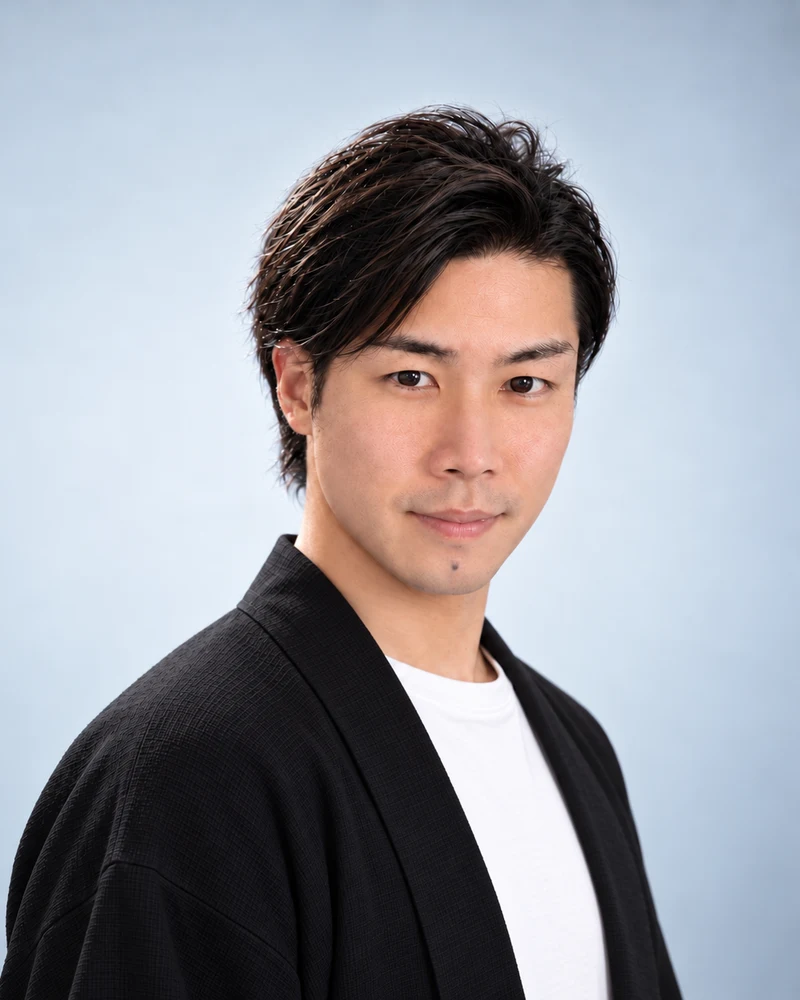
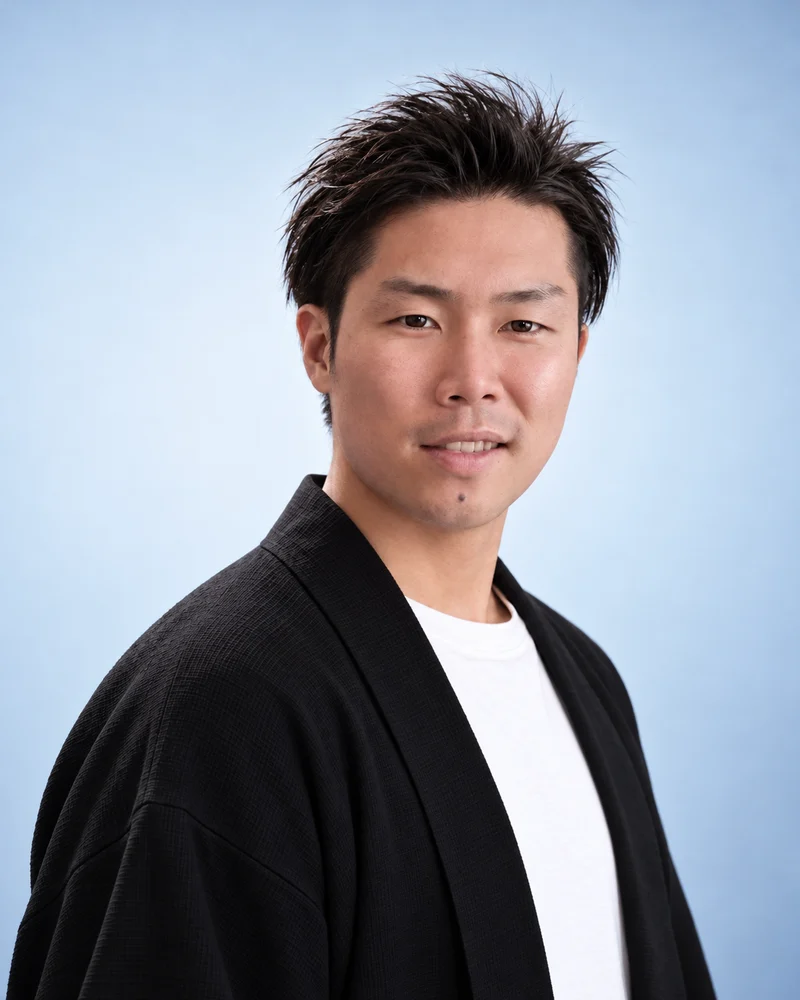
LPプロフィール写真を新ポーズ版（2026-10-15）に差し替え

diff --git a/index.html b/index.html
@@ -356,7 +356,7 @@
         <p class="label rv">作った人</p>
         <div class="maker-grid">
           <figure class="maker-photo rv">
-            <img src="morukoimage/kita_profile.webp?v=1001f" alt="モルコを作った北 祐介" loading="lazy" width="800" height="1000" />
+            <img src="morukoimage/kita_profile.webp?v=1015a" alt="モルコを作った北 祐介" loading="lazy" width="800" height="1000" />
           </figure>
           <div>
             <h2 class="rv">コードを1行も書かない人が、<br />作りました。</h2>
